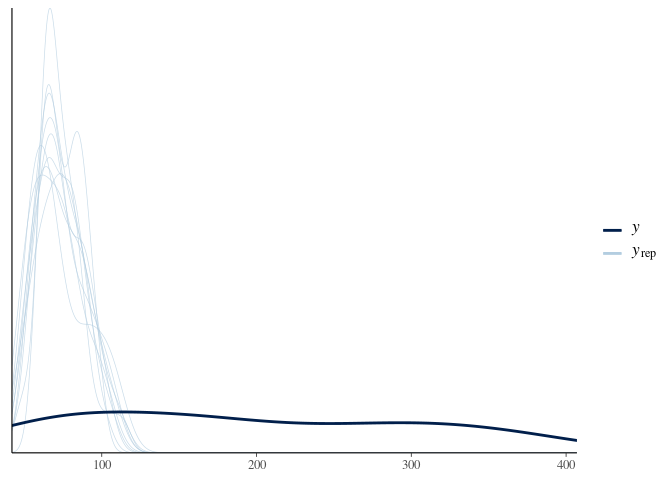
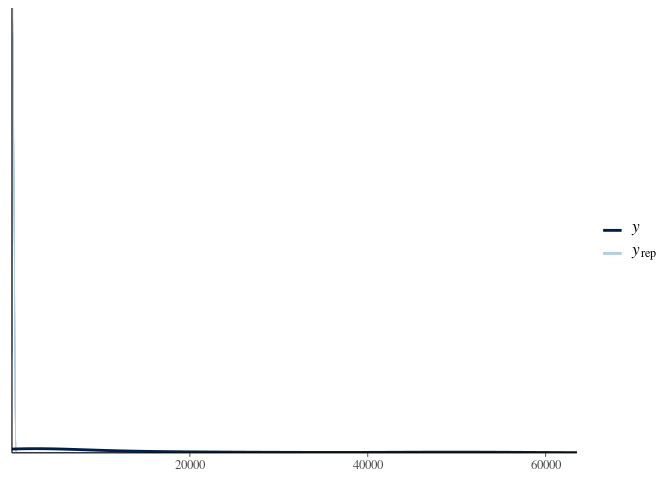
bump readme + pi

Changed region(s): [[0.0, 0.1562, 0.875, 1.0], [0.375, 0.875, 0.8125, 0.9062]]

diff --git a/README.md b/README.md
@@ -61,9 +61,9 @@ weight_cmf <- function(x, ...) {
 
 obs <- data.table(
   region = "Glastonbury", 
-  cases = as.integer(c(10 * exp(0.2 * 1:25), 
-                       10 * exp(0.2 * 25) * exp(-0.1 * 1:25))),
-  date = seq(as.Date("2020-10-01"), by = "days", length.out = 50))
+  cases = as.integer(c(10 * exp(0.2 * 1:50), 
+                       10 * exp(0.2 * 50) * exp(-0.1 * 1:50))),
+  date = seq(as.Date("2020-10-01"), by = "days", length.out = 100))
 # roll over observed cases to produce a convolution
 obs <- obs[, deaths := frollapply(cases, 15, weight_cmf, align = "right")]
 obs <- obs[!is.na(deaths)]
@@ -91,19 +91,19 @@ ggplot(obs) +
 
 ``` r
 prep_obs <- prepare(obs, model = "convolution", location = "region",
-                    primary = "cases", secondary = "deaths")
+                    primary = "cases", secondary = "deaths", max_convolution = 15)
 head(prep_obs, 10)
 #>        location       date time index init_obs cstart cmax primary secondary
-#>  1: Glastonbury 2020-10-15    0     1        1      1    1     200        42
-#>  2: Glastonbury 2020-10-16    1     2        1      1    2     245        47
-#>  3: Glastonbury 2020-10-17    2     3        1      1    3     299        54
-#>  4: Glastonbury 2020-10-18    3     4        1      1    4     365        74
-#>  5: Glastonbury 2020-10-19    4     5        1      1    5     447        59
-#>  6: Glastonbury 2020-10-20    5     6        1      1    6     545       113
+#>  1: Glastonbury 2020-10-15    0     1        1      1    1     200        41
+#>  2: Glastonbury 2020-10-16    1     2        1      1    2     245        52
+#>  3: Glastonbury 2020-10-17    2     3        1      1    3     299        47
+#>  4: Glastonbury 2020-10-18    3     4        1      1    4     365        73
+#>  5: Glastonbury 2020-10-19    4     5        1      1    5     447        60
+#>  6: Glastonbury 2020-10-20    5     6        1      1    6     545       100
 #>  7: Glastonbury 2020-10-21    6     7        1      1    7     666       115
-#>  8: Glastonbury 2020-10-22    7     8        1      1    8     814       160
-#>  9: Glastonbury 2020-10-23    8     9        1      1    9     994       158
-#> 10: Glastonbury 2020-10-24    9    10        1      1   10    1215       221
+#>  8: Glastonbury 2020-10-22    7     8        1      1    8     814       161
+#>  9: Glastonbury 2020-10-23    8     9        1      1    9     994       148
+#> 10: Glastonbury 2020-10-24    9    10        1      1   10    1215       243
 ```
 
   - Fit the model assuming a Poisson observation model (*It is important
@@ -113,7 +113,7 @@ head(prep_obs, 10)
 <!-- end list -->
 
 ``` r
-fit <- idbrm(data = dt)
+fit <- idbrm(data = prep_obs)
 ```
 
   - Summarise fit.
@@ -128,15 +128,15 @@ summary(fit)
 #>          scale ~ 1
 #>          cmean ~ 1
 #>          lcsd ~ 1
-#>    Data: data (Number of observations: 36) 
+#>    Data: data (Number of observations: 86) 
 #> Samples: 4 chains, each with iter = 2000; warmup = 1000; thin = 1;
 #>          total post-warmup samples = 4000
 #> 
 #> Population-Level Effects: 
 #>                 Estimate Est.Error l-95% CI u-95% CI Rhat Bulk_ESS Tail_ESS
-#> scale_Intercept    -0.86      0.02    -0.89    -0.83 1.00     3820     2870
-#> cmean_Intercept     1.54      0.03     1.47     1.61 1.00     3874     2773
-#> lcsd_Intercept     -0.28      0.06    -0.40    -0.15 1.00     3777     2822
+#> scale_Intercept    -0.56      0.00    -0.56    -0.55 1.00     5054     2936
+#> cmean_Intercept     1.50      0.00     1.49     1.51 1.00     1273     1642
+#> lcsd_Intercept     -0.05      0.01    -0.07    -0.03 1.00     1091     1382
 #> 
 #> Samples were drawn using sampling(NUTS). For each parameter, Bulk_ESS
 #> and Tail_ESS are effective sample size measures, and Rhat is the potential
@@ -150,14 +150,14 @@ summary(fit)
 
 ``` r
 exp(posterior_summary(fit, "scale_Intercept"))
-#>                    Estimate Est.Error     Q2.5     Q97.5
-#> b_scale_Intercept 0.4236644  1.017188 0.409688 0.4379042
+#>                    Estimate Est.Error      Q2.5     Q97.5
+#> b_scale_Intercept 0.5740631  1.001432 0.5724409 0.5756615
 posterior_summary(fit, "cmean_Intercept")
-#>                   Estimate  Est.Error     Q2.5    Q97.5
-#> b_cmean_Intercept 1.541415 0.03406508 1.474534 1.607168
+#>                   Estimate   Est.Error    Q2.5    Q97.5
+#> b_cmean_Intercept 1.500904 0.004249685 1.49294 1.509628
 exp(posterior_summary(fit, "lcsd_Intercept"))
-#>                   Estimate Est.Error     Q2.5     Q97.5
-#> b_lcsd_Intercept 0.7562595   1.06484 0.670132 0.8572652
+#>                   Estimate Est.Error      Q2.5     Q97.5
+#> b_lcsd_Intercept 0.9523768  1.008974 0.9356122 0.9695588
 ```
 
   - Expose model stan functions.
